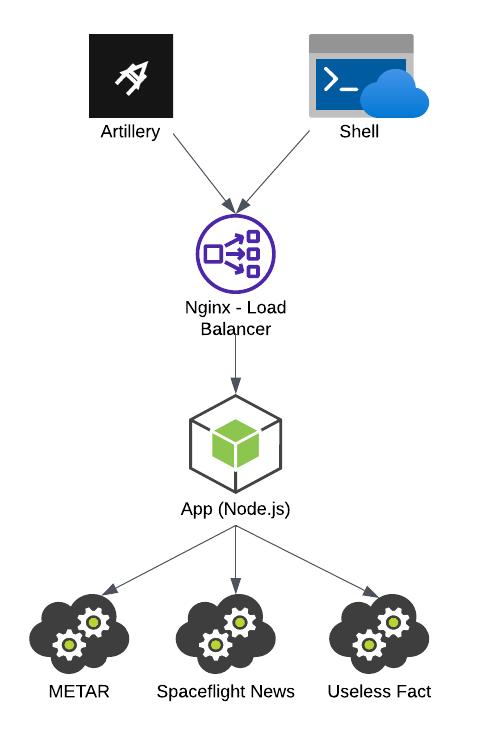
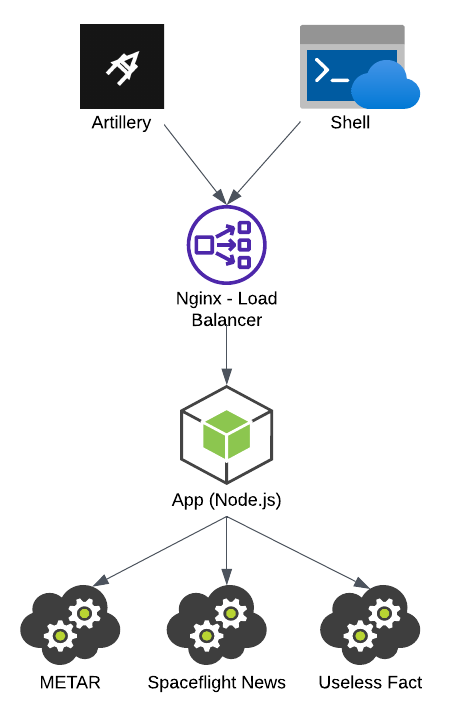
Se agregan imagenes de ambas vistas

diff --git a/informe.md b/informe.md
@@ -27,10 +27,10 @@ En primer lugar se configuraron tanto docker-componse como Nginx para poder tene
 
 ## Vista Components & Connectors
 ### Caso Base
-`![](/assets/VCC_Base.png)`
+![](/assets/VCC_Base.png)
 
 ### Caso con Replicación
-
+![](/assets/VCC_Replicacion.png)
 
 
 
